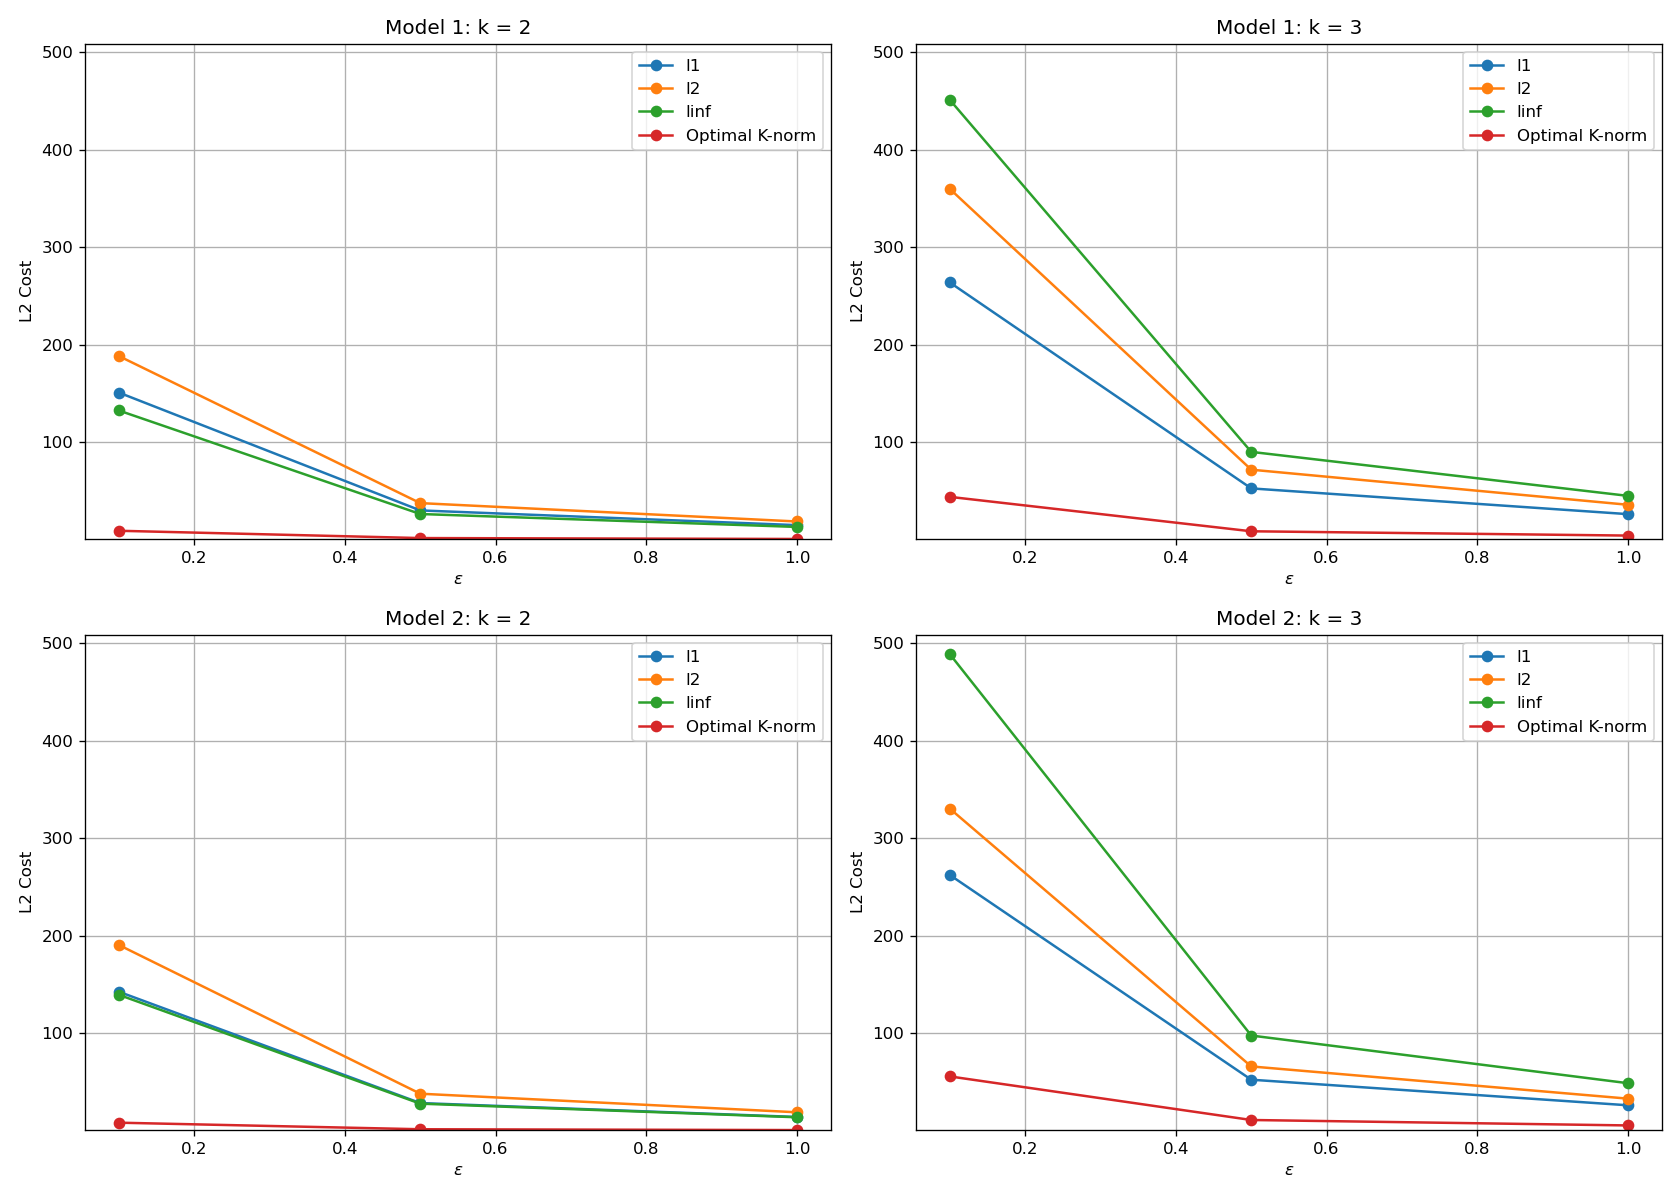
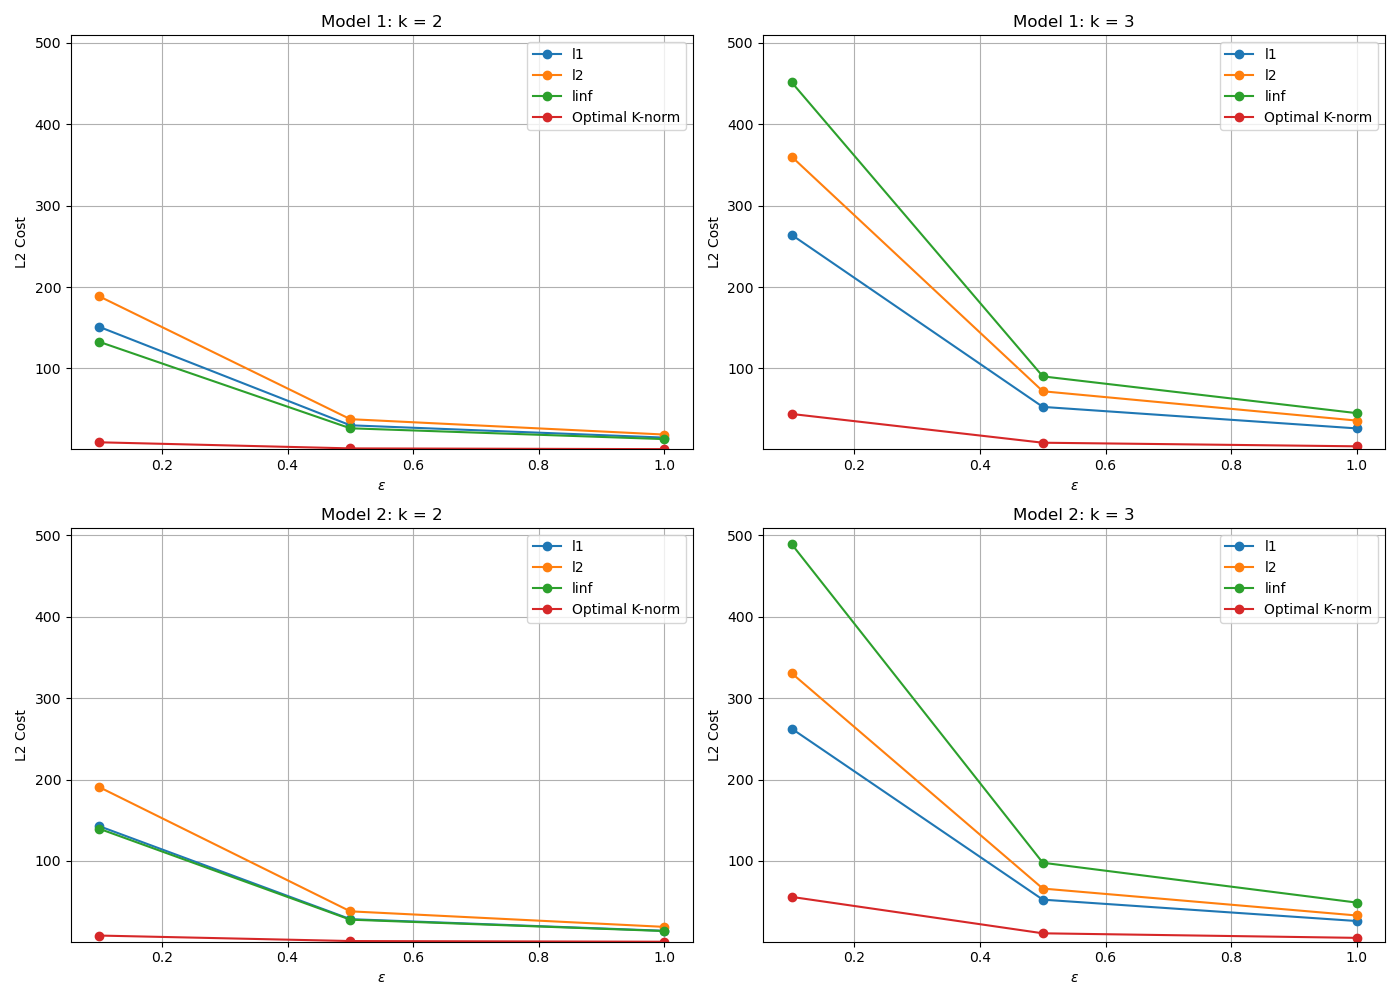
Preserve original manuscript plot assets

diff --git a/scripts/make_paper_plots.py b/scripts/make_paper_plots.py
@@ -49,7 +49,7 @@ def make_gaussian_plot() -> None:
     plt.grid(True)
 
     plt.tight_layout()
-    plt.savefig(PLOTS / "gaussian_comparison.png", dpi=120)
+    plt.savefig(PLOTS / "gaussian_comparison.png")
     plt.close()
 
 
@@ -126,7 +126,7 @@ def make_knorm_plot() -> None:
         ax.set_ylim([y_min, y_max])
 
     plt.tight_layout()
-    plt.savefig(PLOTS / "Knorm_comparison.png", dpi=120)
+    plt.savefig(PLOTS / "Knorm_comparison.png")
     plt.close(fig)
 
 
